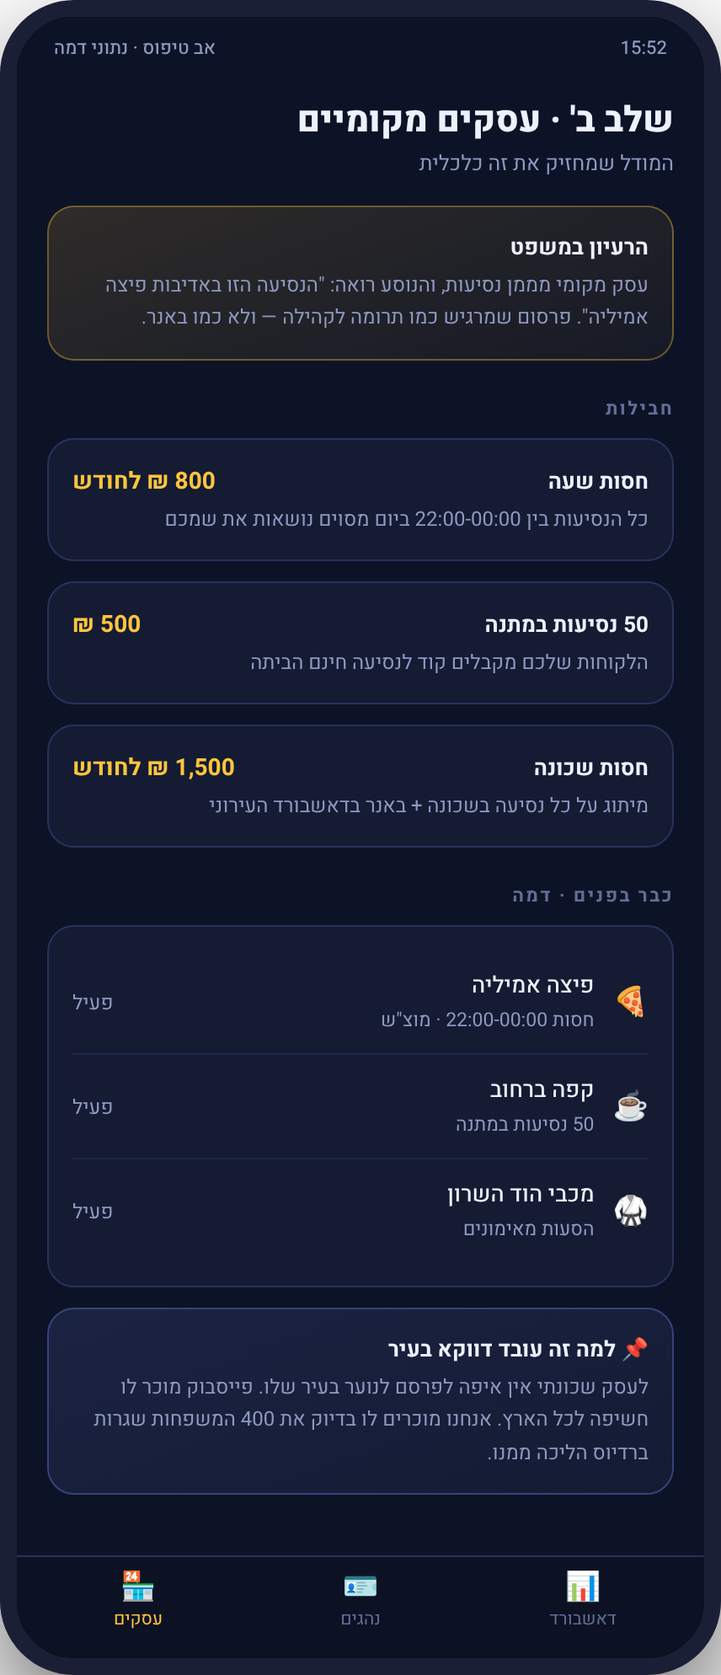
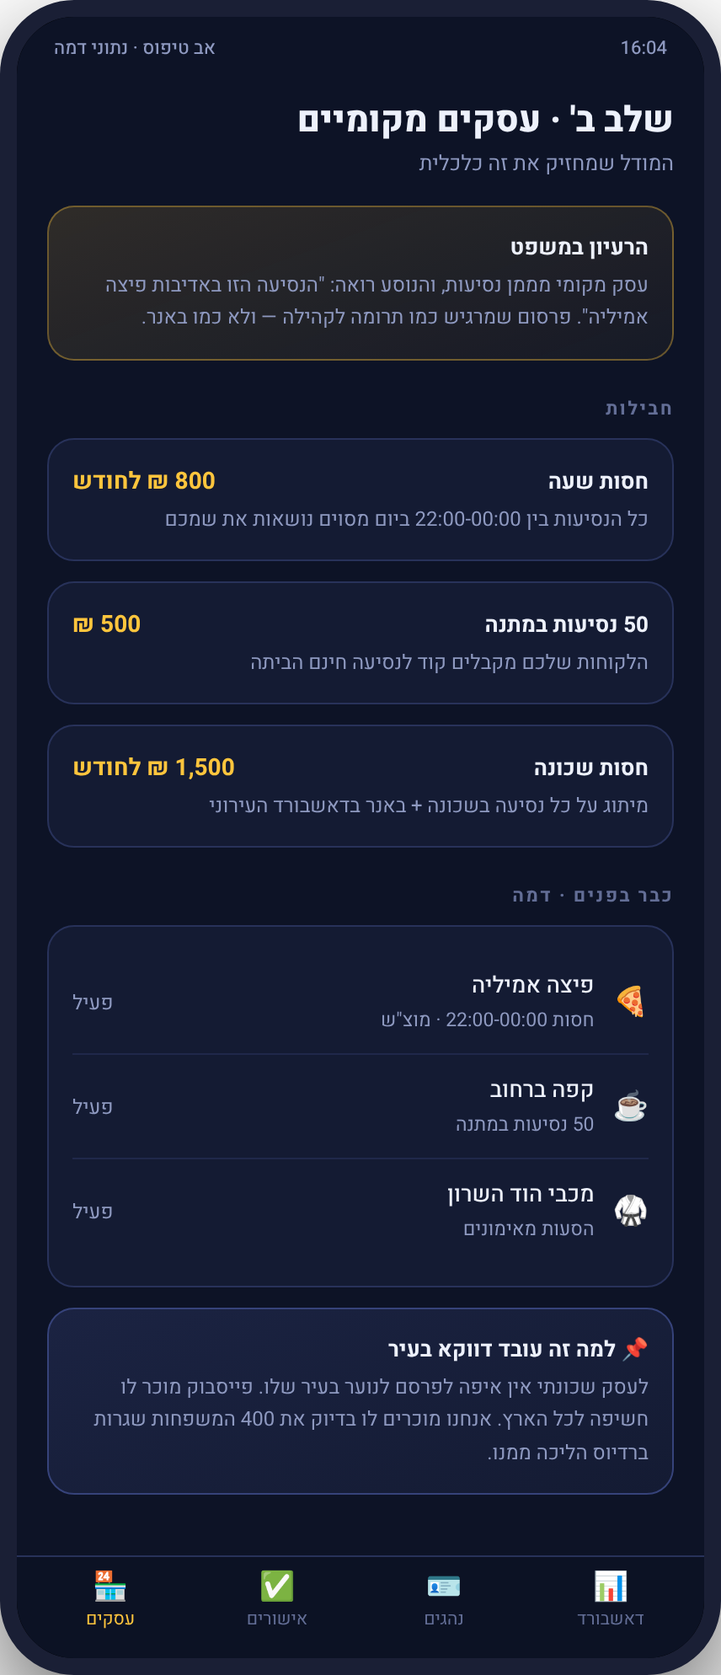
Karov: driver vetting flow with the school as the trust gate
Adds the onboarding and approval flow that was missing: an invite that
only reaches parents registered at the school, the six vetting steps with
an explicit owner and duration for each, an application status screen, and
the parents-committee approval queue.

Design decision behind it: the school is the gate, not the operator. The
Ministry of Education requires organised student transport to use vehicles
licensed to carry passengers, so the school only confirms that someone is
genuinely a parent there, while the non-profit runs the checks and carries
the service. The absence-of-sex-offences certificate (3-10 days, issued to
an institution) is the critical path, so it starts in parallel with
everything else.

Also documents the privacy boundary: the committee sees enrolment and
stage only, never check results.

24 screens regenerated; gallery rebuilt.

Claude-Session: https://claude.ai/code/session_0178jrLFNFhbBUYVvtgxSzme

diff --git a/karov/screens.html b/karov/screens.html
@@ -38,12 +38,12 @@ footer{margin-top:50px;border-top:1px solid var(--line);padding-top:20px;color:v
 <body><div class="wrap">
 <header><div class="mark">ק</div><div><div class="bn">קרוב</div><div class="bs">ההסעה השכונתית</div></div></header>
 <h1>כל המסכים, מסך אחד בכל תמונה</h1>
-<p class="lead">20 מסכים, חמישה תפקידים: נוסע, הורה, נהג, ליווי ועירייה. השירות פועל כל היום — בוקר לבית הספר, צהריים לחוגים, ערב, לילה ושבת — ולא רק בשעות שאין בהן תחבורה ציבורית. לחיצה על תמונה פותחת אותה בגודל מלא.</p>
+<p class="lead">24 מסכים: נוסע, הורה, נהג, ליווי ועירייה. השירות פועל כל היום — בוקר לבית הספר, צהריים לחוגים, ערב, לילה ושבת — ולא רק בשעות שאין בהן תחבורה ציבורית. לחיצה על תמונה פותחת אותה בגודל מלא.</p>
 <div class="links"><a class="p" href="demo.html">▶ דמו פשוט (60 שניות)</a><a href="index.html">לאב-טיפוס המלא</a><a href="pitch.html">הצעה לעירייה</a><a href="README.md">מסמך המוצר</a></div>
 <h2 class="role" style="--c:#FFC53D">נוסע</h2>
 <div class="grid">
   <figure><a href="screens/01-ride-request.png" target="_blank"><img src="screens/01-ride-request.png" alt="הזמנת נסיעה" loading="lazy"></a>
-   <figcaption><b>הזמנת נסיעה</b><span>בוחרים שעה ביום, רואים מחיר אחיד של 10 ₪, ומי זמין עכשיו בעיר.</span></figcaption></figure>
+   <figcaption><b>הזמנת נסיעה</b><span>בוחרים שעה ביום, מחיר אחיד של 10 ₪, ומי זמין עכשיו בעיר.</span></figcaption></figure>
   <figure><a href="screens/02-live-transit.png" target="_blank"><img src="screens/02-live-transit.png" alt="אוטובוס מול הסעה" loading="lazy"></a>
    <figcaption><b>אוטובוס מול הסעה</b><span>זמני אוטובוס בזמן אמת לצד ההסעה. אם האוטובוס עדיף — נגיד את זה.</span></figcaption></figure>
   <figure><a href="screens/03-matching.png" target="_blank"><img src="screens/03-matching.png" alt="מחפש נהג" loading="lazy"></a>
@@ -53,47 +53,58 @@ footer{margin-top:50px;border-top:1px solid var(--line);padding-top:20px;color:v
   <figure><a href="screens/05-share-parents.png" target="_blank"><img src="screens/05-share-parents.png" alt="שיתוף עם ההורים" loading="lazy"></a>
    <figcaption><b>שיתוף עם ההורים</b><span>ההורים מקבלים בדיוק את אותו מידע, גם בלי להתקין אפליקציה.</span></figcaption></figure>
   <figure><a href="screens/06-ride-done.png" target="_blank"><img src="screens/06-ride-done.png" alt="הגעת הביתה" loading="lazy"></a>
-   <figcaption><b>הגעת הביתה</b><span>תשלום, קבלה, דירוג — וההורים קיבלו עדכון אוטומטי.</span></figcaption></figure>
+   <figcaption><b>הגעת הביתה</b><span>פירוט התשלום: 7.50 ₪ לנהג, 2.50 ₪ דמי שירות.</span></figcaption></figure>
   <figure><a href="screens/07-wallet.png" target="_blank"><img src="screens/07-wallet.png" alt="ארנק משפחתי" loading="lazy"></a>
    <figcaption><b>ארנק משפחתי</b><span>קרדיטים במקום כסף: מי שמסיע צובר, כל המשפחה משתמשת.</span></figcaption></figure>
   <figure><a href="screens/08-trust.png" target="_blank"><img src="screens/08-trust.png" alt="למה אפשר לסמוך" loading="lazy"></a>
    <figcaption><b>למה אפשר לסמוך</b><span>שבע שכבות אימות לפני שנהג מקבל נוסע ראשון.</span></figcaption></figure>
+</div>
+<h2 class="role" style="--c:#4FDCA8">הצטרפות ואימות נהג</h2>
+<div class="grid">
+  <figure><a href="screens/21-join-start.png" target="_blank"><img src="screens/21-join-start.png" alt="ההזמנה מבית הספר" loading="lazy"></a>
+   <figcaption><b>ההזמנה מבית הספר</b><span>מי מזמין, ומה בית הספר דווקא לא עושה.</span></figcaption></figure>
+  <figure><a href="screens/22-join-steps.png" target="_blank"><img src="screens/22-join-steps.png" alt="ששת השלבים" loading="lazy"></a>
+   <figcaption><b>ששת השלבים</b><span>מי אחראי על כל שלב וכמה זמן הוא לוקח.</span></figcaption></figure>
+  <figure><a href="screens/23-join-status.png" target="_blank"><img src="screens/23-join-status.png" alt="סטטוס הבקשה" loading="lazy"></a>
+   <figcaption><b>סטטוס הבקשה</b><span>איפה זה תקוע — ולמה האישור המשטרתי הוא צוואר הבקבוק.</span></figcaption></figure>
+  <figure><a href="screens/24-school-queue.png" target="_blank"><img src="screens/24-school-queue.png" alt="תור האישורים" loading="lazy"></a>
+   <figcaption><b>תור האישורים</b><span>המסך של ועד ההורים: מי מאושר, ומה הוועד לא רואה.</span></figcaption></figure>
 </div>
 <h2 class="role" style="--c:#8A7CFF">הורה</h2>
 <div class="grid">
   <figure><a href="screens/09-parent-live.png" target="_blank"><img src="screens/09-parent-live.png" alt="איפה הילד עכשיו" loading="lazy"></a>
    <figcaption><b>איפה הילד עכשיו</b><span>מי הנהגת, איזה רכב, מי עוד בפנים, ומתי הוא מגיע.</span></figcaption></figure>
   <figure><a href="screens/10-parent-alerts.png" target="_blank"><img src="screens/10-parent-alerts.png" alt="עדכונים אוטומטיים" loading="lazy"></a>
-   <figcaption><b>עדכונים אוטומטיים</b><span>בלי לשאול "הגעת?". גם בוואטסאפ, להורים שלא מתקינים אפליקציות.</span></figcaption></figure>
+   <figcaption><b>עדכונים אוטומטיים</b><span>בלי לשאול "הגעת?". גם בוואטסאפ.</span></figcaption></figure>
   <figure><a href="screens/11-parent-rules.png" target="_blank"><img src="screens/11-parent-rules.png" alt="הכללים שלי" loading="lazy"></a>
    <figcaption><b>הכללים שלי</b><span>שעות מותרות, אישור לכל נסיעה, חסימת נהג, תקציב חודשי.</span></figcaption></figure>
 </div>
 <h2 class="role" style="--c:#4FDCA8">נהג</h2>
 <div class="grid">
   <figure><a href="screens/12-driver-available.png" target="_blank"><img src="screens/12-driver-available.png" alt="זמינות ובקשה נכנסת" loading="lazy"></a>
-   <figcaption><b>זמינות ובקשה נכנסת</b><span>מתג אחד. ומונה שחוסם אוטומטית אחרי 2 הסעות ביום — המגבלה החוקית.</span></figcaption></figure>
+   <figcaption><b>זמינות ובקשה נכנסת</b><span>שלושה מצבי נהג: קהילתי, מורחב, ובעל רישיון הסעה.</span></figcaption></figure>
   <figure><a href="screens/13-driver-route.png" target="_blank"><img src="screens/13-driver-route.png" alt="מסלול עם איסופים" loading="lazy"></a>
    <figcaption><b>מסלול עם איסופים</b><span>אוספים עוד בדרך בלי לסטות. ניווט נפתח ב-Waze.</span></figcaption></figure>
   <figure><a href="screens/14-driver-wallet.png" target="_blank"><img src="screens/14-driver-wallet.png" alt="מה צברת" loading="lazy"></a>
-   <figcaption><b>מה צברת</b><span>קרדיטים למשפחה, תרומה למשפחה אחרת, או המרה אצל עסק מקומי.</span></figcaption></figure>
+   <figcaption><b>מה צברת</b><span>קרדיטים למשפחה, תרומה למשפחה אחרת, או המרה אצל עסק.</span></figcaption></figure>
 </div>
-<h2 class="role" style="--c:#4FDCA8">ליווי</h2>
+<h2 class="role" style="--c:#8A7CFF">ליווי</h2>
 <div class="grid">
   <figure><a href="screens/15-escort-request.png" target="_blank"><img src="screens/15-escort-request.png" alt="בקשת ליווי" loading="lazy"></a>
    <figcaption><b>בקשת ליווי</b><span>טלפוני, וידאו, או שמישהו יבוא ברגל. תמיד בחינם.</span></figcaption></figure>
   <figure><a href="screens/16-escort-active.png" target="_blank"><img src="screens/16-escort-active.png" alt="ליווי פעיל" loading="lazy"></a>
-   <figcaption><b>ליווי פעיל</b><span>מלווה על הקו, מיקום חי להורים ולמוקד, וטיימר שמתריע אם לא אושרה הגעה.</span></figcaption></figure>
+   <figcaption><b>ליווי פעיל</b><span>מלווה על הקו, מיקום חי, וטיימר שמתריע אם לא אושרה הגעה.</span></figcaption></figure>
   <figure><a href="screens/17-escort-how.png" target="_blank"><img src="screens/17-escort-how.png" alt="איך זה עובד" loading="lazy"></a>
-   <figcaption><b>איך זה עובד</b><span>חמישה שלבים, ומה חייב להיות מוכן לפני שמשחררים לציבור.</span></figcaption></figure>
+   <figcaption><b>איך זה עובד</b><span>חמישה שלבים, ומה חייב להיות מוכן לפני שמשחררים.</span></figcaption></figure>
 </div>
 <h2 class="role" style="--c:#FFC53D">עירייה</h2>
 <div class="grid">
   <figure><a href="screens/18-city-dashboard.png" target="_blank"><img src="screens/18-city-dashboard.png" alt="דאשבורד עירוני" loading="lazy"></a>
-   <figcaption><b>דאשבורד עירוני</b><span>המספרים שמוכרים את זה: עלות 0 ₪, שעות שיא, אפס אירועי בטיחות.</span></figcaption></figure>
+   <figcaption><b>דאשבורד עירוני</b><span>עלות 0 ₪ לעירייה, שעות שיא, אפס אירועי בטיחות.</span></figcaption></figure>
   <figure><a href="screens/19-city-drivers.png" target="_blank"><img src="screens/19-city-drivers.png" alt="מצבת נהגים" loading="lazy"></a>
-   <figcaption><b>מצבת נהגים</b><span>מי אושר, מי בבדיקה, ומי הושעה — והכל מדווח לעירייה.</span></figcaption></figure>
+   <figcaption><b>מצבת נהגים</b><span>מי אושר, מי בבדיקה, ומי הושעה.</span></figcaption></figure>
   <figure><a href="screens/20-local-business.png" target="_blank"><img src="screens/20-local-business.png" alt="עסקים מקומיים" loading="lazy"></a>
-   <figcaption><b>עסקים מקומיים</b><span>שלב ב': עסק מממן נסיעות, והנוסע רואה מי שילם.</span></figcaption></figure>
+   <figcaption><b>עסקים מקומיים</b><span>שלב ב׳: עסק מממן נסיעות, והנוסע רואה מי שילם.</span></figcaption></figure>
 </div>
 
 <footer>אב טיפוס להמחשה. כל הנתונים בתמונות הם נתוני דמה — אין תשלומים, מיקומים או נהגים אמיתיים.</footer>

diff --git a/karov/index.html b/karov/index.html
@@ -245,9 +245,9 @@ a.lnk{color:var(--acc);font-size:12px;text-decoration:none;border-bottom:1px das
 const ROLES=[
  {id:'rider', label:'נוסע', tabs:[['בית','🏠','rider_home'],['הנסיעה','🚗','rider_live'],['תחב"צ','🚌','transit'],['ליווי','🛡','escort_home'],['ארנק','💳','wallet']]},
  {id:'parent',label:'הורה', tabs:[['מצב חי','📍','parent_live'],['עדכונים','🔔','parent_alerts'],['כללים','⚙','parent_settings']]},
- {id:'driver',label:'נהג',  tabs:[['זמינות','🟢','driver_home'],['מסלול','🗺','driver_route'],['ארנק','💳','driver_wallet']]},
+ {id:'driver',label:'נהג',  tabs:[['הצטרפות','📝','join_start'],['זמינות','🟢','driver_home'],['מסלול','🗺','driver_route'],['ארנק','💳','driver_wallet']]},
  {id:'escort',label:'ליווי', tabs:[['בקשת ליווי','🛡','escort_home'],['איך זה עובד','ℹ','escort_how']]},
- {id:'city',  label:'עירייה',tabs:[['דאשבורד','📊','city_home'],['נהגים','🪪','city_drivers'],['עסקים','🏪','city_biz']]}
+ {id:'city',  label:'עירייה',tabs:[['דאשבורד','📊','city_home'],['נהגים','🪪','city_drivers'],['אישורים','✅','school_queue'],['עסקים','🏪','city_biz']]}
 ];
 const D={
  rider:{name:'נועם',init:'נ'},
@@ -708,6 +708,99 @@ SC.driver_wallet=()=>`<div class="pad fade">
 </div>`;
 
 /* ---------------- עירייה ---------------- */
+SC.join_start=()=>`<div class="pad fade">
+ <div class="hd"><div><h2>להצטרף כנהג</h2><p>תיכון הדרים · ועד ההורים הזמין אותך</p></div><div class="avatar a">🏫</div></div>
+ <div class="card acc">
+  <div class="card-t">איך בית הספר נכנס לתמונה</div>
+  <div class="card-s">ועד ההורים שולח קישור אישי רק להורים של בית הספר. זה הסינון הראשון — ולפני כל בדיקה, זה מה שהופך "נהג זר" ל"אמא של מישהו מהכיתה המקבילה".</div>
+ </div>
+ <div class="card hi">
+  <div class="card-t">⚠ מה בית הספר <u>לא</u> עושה</div>
+  <div class="card-s">בית הספר לא מפעיל את השירות ולא אחראי על הנסיעות. לפי כללי משרד החינוך, הסעות תלמידים מאורגנות חייבות רכב מורשה להסעת נוסעים — אוטובוס, מיניבוס או מונית. לכן בית הספר רק <b>מאשר שאתה באמת הורה אצלו</b>; הנסיעה עצמה היא בין תושבים, באחריות העמותה.</div>
+ </div>
+ <div class="kpis">
+  <div class="kpi acc"><div class="n">6</div><div class="l">שלבים</div></div>
+  <div class="kpi"><div class="n">10 <small>ימים</small></div><div class="l">זמן ממוצע לאישור</div></div>
+ </div>
+ <button class="btn" onclick="go('join_steps')">תתחיל את התהליך</button>
+ <button class="btn sec" style="margin-top:8px" onclick="go('join_status')">איפה הבקשה שלי?</button>
+</div>`;
+
+SC.join_steps=()=>`<div class="pad fade">
+ <div class="hd"><div><h2>ששת השלבים</h2><p>3 שלבים עליך, 3 על העמותה והקהילה</p></div></div>
+ <div class="card"><div class="timeline"><div class="tl done"><div class="tl-dot"><b></b><i></i></div>
+    <div class="tl-c"><div class="tl-t">1. ההזמנה מבית הספר ✓</div>
+    <div class="tl-s">ועד ההורים שולח קישור אישי. רק מי שבאמת הורה בבית הספר יכול להיכנס.</div>
+    <div class="badges"><span class="badge v">בית הספר</span><span class="badge a">מיידי</span></div></div></div><div class="tl done"><div class="tl-dot"><b></b><i></i></div>
+    <div class="tl-c"><div class="tl-t">2. אימות זהות ✓</div>
+    <div class="tl-s">ת"ז + סלפי חי שמושווה אוטומטית לתמונה שבתעודה.</div>
+    <div class="badges"><span class="badge v">אתה</span><span class="badge a">2 דקות</span></div></div></div><div class="tl done"><div class="tl-dot"><b></b><i></i></div>
+    <div class="tl-c"><div class="tl-t">3. רכב, רישיון וביטוח ✓</div>
+    <div class="tl-s">רישיון נהיגה, רישיון רכב, ופוליסה בתוקף — כולל אישור שהיא מכסה נוסעים בנסיעה שיתופית.</div>
+    <div class="badges"><span class="badge v">אתה</span><span class="badge a">5 דקות</span></div></div></div><div class="tl now"><div class="tl-dot"><b></b><i></i></div>
+    <div class="tl-c"><div class="tl-t">4. עבר תעבורתי ●</div>
+    <div class="tl-s">הצהרה + ייפוי כוח לבדיקת שלילות, נקודות ותאונות.</div>
+    <div class="badges"><span class="badge v">אתה + העמותה</span><span class="badge a">יומיים</span></div></div></div><div class="tl "><div class="tl-dot"><b></b><i></i></div>
+    <div class="tl-c"><div class="tl-t">5. אישור היעדר עבירות מין </div>
+    <div class="tl-s">העמותה מגישה למשטרה עם "תעודת מוסד", על סמך טופס בקשת בגיר שחתמת עליו. מקוון דרך GovID.</div>
+    <div class="badges"><span class="badge v">העמותה מול המשטרה</span><span class="badge a">3–10 ימים</span></div></div></div><div class="tl "><div class="tl-dot"><b></b><i></i></div>
+    <div class="tl-c"><div class="tl-t">6. שתי המלצות + ראיון </div>
+    <div class="tl-s">שני הורים שכבר ברשת מאשרים אותך, ושיחת וידאו של 10 דקות עם רכז הקהילה.</div>
+    <div class="badges"><span class="badge v">הקהילה</span><span class="badge a">יומיים</span></div></div></div></div></div>
+ <div class="card mint">
+  <div class="card-t">✅ ואז: תג "נהג מאומת"</div>
+  <div class="card-s">מופיע לכל נוסע ולכל הורה, עם תאריך האימות האחרון. בתוקף ל-3 שנים — ואז בדיקה מחדש אוטומטית.</div>
+ </div>
+ <div class="card">
+  <div class="card-t">🔁 וגם אחרי שאושרת</div>
+  <div class="card-s">דירוג דו-כיווני בכל נסיעה · 2 דיווחי בטיחות = השעיה מיידית ובדיקה אנושית · כל נסיעה מתועדת (מי, מתי, איפה, עם מי) · בדיקה חוזרת כל 3 שנים.</div>
+ </div>
+ <button class="btn sec" onclick="go('join_status')">ראה סטטוס לדוגמה</button>
+</div>`;
+
+SC.join_status=()=>`<div class="pad fade">
+ <div class="hd"><div><h2>הבקשה בבדיקה</h2><p>הוגשה לפני 4 ימים · רונית ל.</p></div>
+ <div class="badge a">4 מתוך 6</div></div>
+ <div class="card acc">
+  <div class="card-t">⏳ ממתין למשטרה</div>
+  <div class="card-s">אישור היעדר עבירות מין — הוגש על ידי העמותה לפני יומיים. זמן תגובה ממוצע: 3–10 ימים. זה צוואר הבקבוק של כל התהליך, ואין דרך לקצר אותו.
+  <div class="bar"><i style="width:67%"></i></div></div>
+ </div>
+ <div class="card">
+  ${[['✅','זהות אומתה','יום ראשון, 09:14'],['✅','רישיון, רכב וביטוח','יום ראשון, 09:21'],
+     ['✅','עבר תעבורתי נקי','יום שני'],['⏳','אישור משטרה','בטיפול העמותה'],
+     ['⬜','המלצות','1 מתוך 2 · ממתין לדני א.'],['⬜','ראיון וידאו','ייקבע אחרי האישור']]
+   .map(r=>`<div class="list-item"><div style="font-size:15px">${r[0]}</div>
+   <div class="li-main"><div class="li-t">${r[1]}</div><div class="li-s">${r[2]}</div></div></div>`).join('')}
+ </div>
+ <div class="card hi"><div class="card-t">בינתיים אפשר</div>
+  <div class="card-s">להצטרף כנוסע, ולראות את השירות מבפנים. כנהג — רק אחרי שכל השישה ירוקים.</div></div>
+ <button class="btn sec" onclick="go('join_steps')">חזרה לשלבים</button>
+</div>`;
+
+SC.school_queue=()=>`<div class="pad fade">
+ <div class="hd"><div><h2>תור אישורים</h2><p>תיכון הדרים · ועד ההורים + העמותה</p></div><div class="avatar a">🏫</div></div>
+ <div class="kpis">
+  <div class="kpi up"><div class="n">61</div><div class="l">הורים אושרו</div></div>
+  <div class="kpi acc"><div class="n">12</div><div class="l">בתהליך</div></div>
+ </div>
+ <div class="sec-t">ממתינים להחלטה</div>
+ <div class="card">
+  ${[['ד','דפנה כ.','ט\'2 + ז\'4 · 5 מתוך 6','מוכן לאישור','var(--mint)'],
+     ['א','אבי מ.','י\'1 · ממתין למשטרה','יום 6','var(--acc)'],
+     ['ס','סמיר ח.','ח\'3 · חסרה המלצה שנייה','תזכורת נשלחה','var(--mut)'],
+     ['נ','נטלי ר.','לא נמצאה במאגר ההורים','נדחה אוטומטית','var(--danger)']]
+   .map(d=>`<div class="list-item"><div class="avatar sm">${d[0]}</div>
+   <div class="li-main"><div class="li-t">${d[1]}</div><div class="li-s">${d[2]}</div></div>
+   <div class="li-e"><b style="color:${d[4]}">${d[3]}</b></div></div>`).join('')}
+ </div>
+ <div class="row"><button class="btn sl">אשר את דפנה</button><button class="btn sec sl">פרטים</button></div>
+ <div class="card" style="margin-top:12px">
+  <div class="card-t">🔐 מה ועד ההורים רואה ומה לא</div>
+  <div class="card-s">רואה: האם ההורה רשום בבית הספר, ובאיזה שלב הבקשה. <b>לא רואה</b> תוצאות של בדיקות משטרה או מידע רפואי — אלה נשארים אצל העמותה בלבד. כל גישה למאגר ההורים דורשת הסכמה בכתב מכל הורה.</div>
+ </div>
+</div>`;
+
 SC.city_home=()=>`<div class="pad fade">
  <div class="hd"><div><h2>עיריית הוד השרון</h2><p>פיילוט · יום 47 מתוך 90</p></div><div class="avatar a">🏛</div></div>
  <div class="kpis">

diff --git a/karov/README.md b/karov/README.md
@@ -9,7 +9,7 @@
 |---|---|
 | `index.html` | אב-טיפוס אינטראקטיבי. 5 תצוגות: נוסע, הורה, נהג, ליווי, עירייה |
 | `screens.html` | גלריית כל המסכים — מסך אחד בכל תמונה |
-| `screens/*.png` | 20 תמונות, מסך אחד בכל אחת |
+| `screens/*.png` | 24 תמונות, מסך אחד בכל אחת |
 | `demo.html` | **דמו פשוט** — מסלול אחד מההזמנה ועד הבית, להראות לאנשים ב-60 שניות |
 | `pitch.html` | מסמך הצעה מוכן לשליחה לעירייה (אפשר להדפיס ל-PDF) |
 
@@ -115,6 +115,46 @@ SafeUP (ישראלית, רשת ליווי לנשים, שיתוף פעולה עם
 - האישור מתייחס רק למי שהורשע בעבירת מין, ולפי מקורות לא רשמיים תקף לשלוש שנים.
 
 **מה זה אומר למבנה החברה:** להקים **עמותה** לצד החברה, או לעבוד תחת העירייה. העמותה היא "המוסד" שמבקש את האישורים — וזה גם מה שהופך את החסות העירונית מ"נחמד שיהיה" ל**חלק קריטי מהתשתית.** זו סיבה מצוינת לפתוח בה את הפגישה עם אגף הנוער.
+
+---
+
+## 1.2 תהליך בדיקת נהג — ואיפה בית הספר נכנס
+
+**הרעיון שלך נכון, אבל צריך להזיז אותו סנטימטר אחד.**
+
+בית הספר הוא **השער**, לא **המפעיל**:
+
+| בית הספר / ועד ההורים **כן** | בית הספר **לא** |
+|---|---|
+| שולח את ההזמנה — רק להורים שרשומים אצלו | לא מפעיל את השירות |
+| מאשר שההורה אכן הורה בבית הספר | לא אחראי על הנסיעה |
+| מספק את הלגיטימציה מול הורים אחרים | לא מחזיק תוצאות של בדיקות |
+
+**למה הקו הזה חשוב:** לפי כללי משרד החינוך, הסעות תלמידים מאורגנות חייבות להתבצע ברכב שמורשה להסעת נוסעים — אוטובוס, מיניבוס או מונית. ברכב פרטי זה מותר רק בהקשרים מוגדרים (למשל טיול, עם מלווה מטעם בית הספר ואישור הורה מראש). לכן ברגע שבית הספר "מפעיל" הסעות ברכבים פרטיים — הוא נכנס לבעיה. כשהוא רק **מאמת זהות קהילתית**, אין בעיה.
+
+**והמלצה מעשית:** להתחיל מ**ועד ההורים**, לא מההנהלה. הוועד הוא גוף עצמאי, זז מהר, ונותן בדיוק את אותה לגיטימציה. ההנהלה והעירייה מצטרפות אחרי שיש 40 הורים רשומים ועובדים.
+
+### ששת השלבים
+
+| # | השלב | מי אחראי | כמה זמן |
+|---|---|---|---|
+| 1 | **הזמנה אישית מוועד ההורים** — קישור חד-פעמי | בית הספר / הוועד | מיידי |
+| 2 | **אימות זהות** — ת"ז + סלפי חי מול התמונה | הנהג | 2 דקות |
+| 3 | **רכב, רישיון וביטוח** — כולל אישור שהפוליסה מכסה נוסעים בנסיעה שיתופית | הנהג | 5 דקות |
+| 4 | **עבר תעבורתי** — הצהרה + ייפוי כוח לבדיקת שלילות ונקודות | הנהג + העמותה | יומיים |
+| 5 | **אישור היעדר עבירות מין** — העמותה מגישה עם "תעודת מוסד" | העמותה מול המשטרה | **3–10 ימים** |
+| 6 | **שתי המלצות + ראיון וידאו של 10 דקות** | הקהילה | יומיים |
+
+**צוואר הבקבוק הוא שלב 5, ואין דרך לקצר אותו.** לכן:
+- מתחילים את שלב 5 **מיד** אחרי שלב 2, במקביל לכל השאר.
+- בזמן ההמתנה הנהג כבר יכול להשתמש בשירות **כנוסע** — ככה לא מאבדים אותו.
+- מגייסים בגלים: 40 הורים ביחד, לא אחד-אחד.
+
+### אחרי האישור
+תג "נהג מאומת" עם תאריך האימות האחרון, גלוי לכל נוסע והורה. **בתוקף ל-3 שנים** (לפי תוקף האישור המשטרתי), ואז בדיקה מחדש אוטומטית. במקביל: דירוג דו-כיווני בכל נסיעה, שני דיווחי בטיחות = השעיה מיידית ובדיקה אנושית, וכל נסיעה מתועדת.
+
+### פרטיות — הנקודה שתתפוצץ אם לא נטפל בה מראש
+ועד ההורים רואה **רק** אם ההורה רשום בבית הספר ובאיזה שלב הבקשה. **תוצאות הבדיקות נשארות אצל העמותה בלבד** — לא אצל הוועד, לא אצל בית הספר, ולא אצל העירייה. כל שימוש במאגר ההורים מחייב הסכמה בכתב מכל הורה. בלי זה אתה בבעיה מול חוק הגנת הפרטיות, ובעיקר בבעיה מול ההורים עצמם.
 
 ---
 
